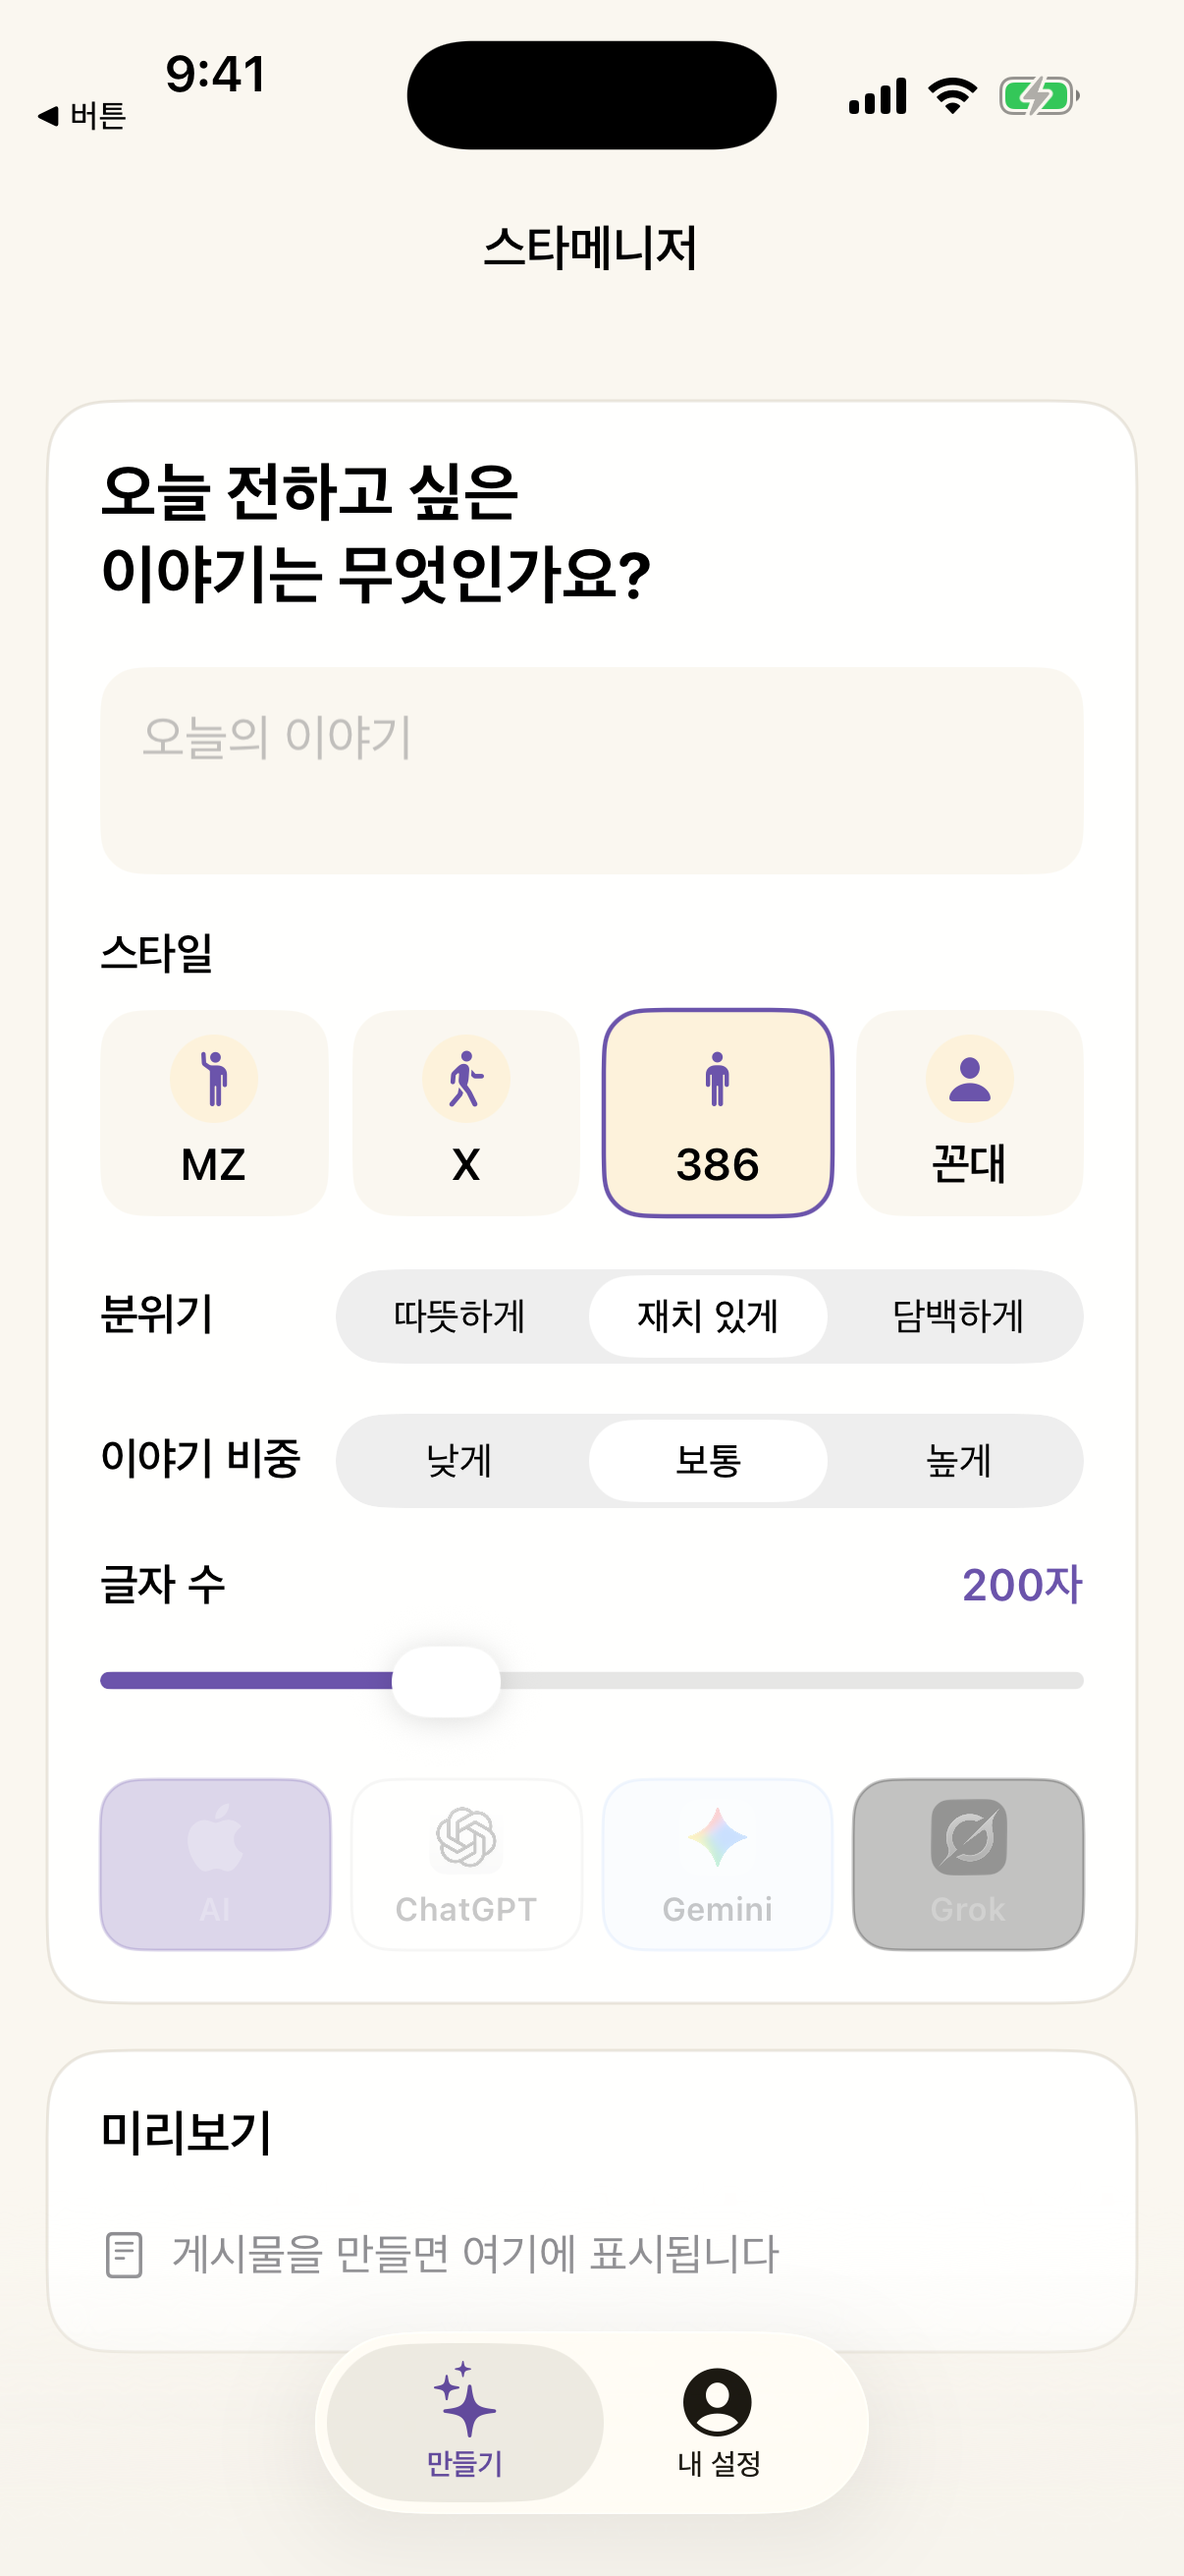
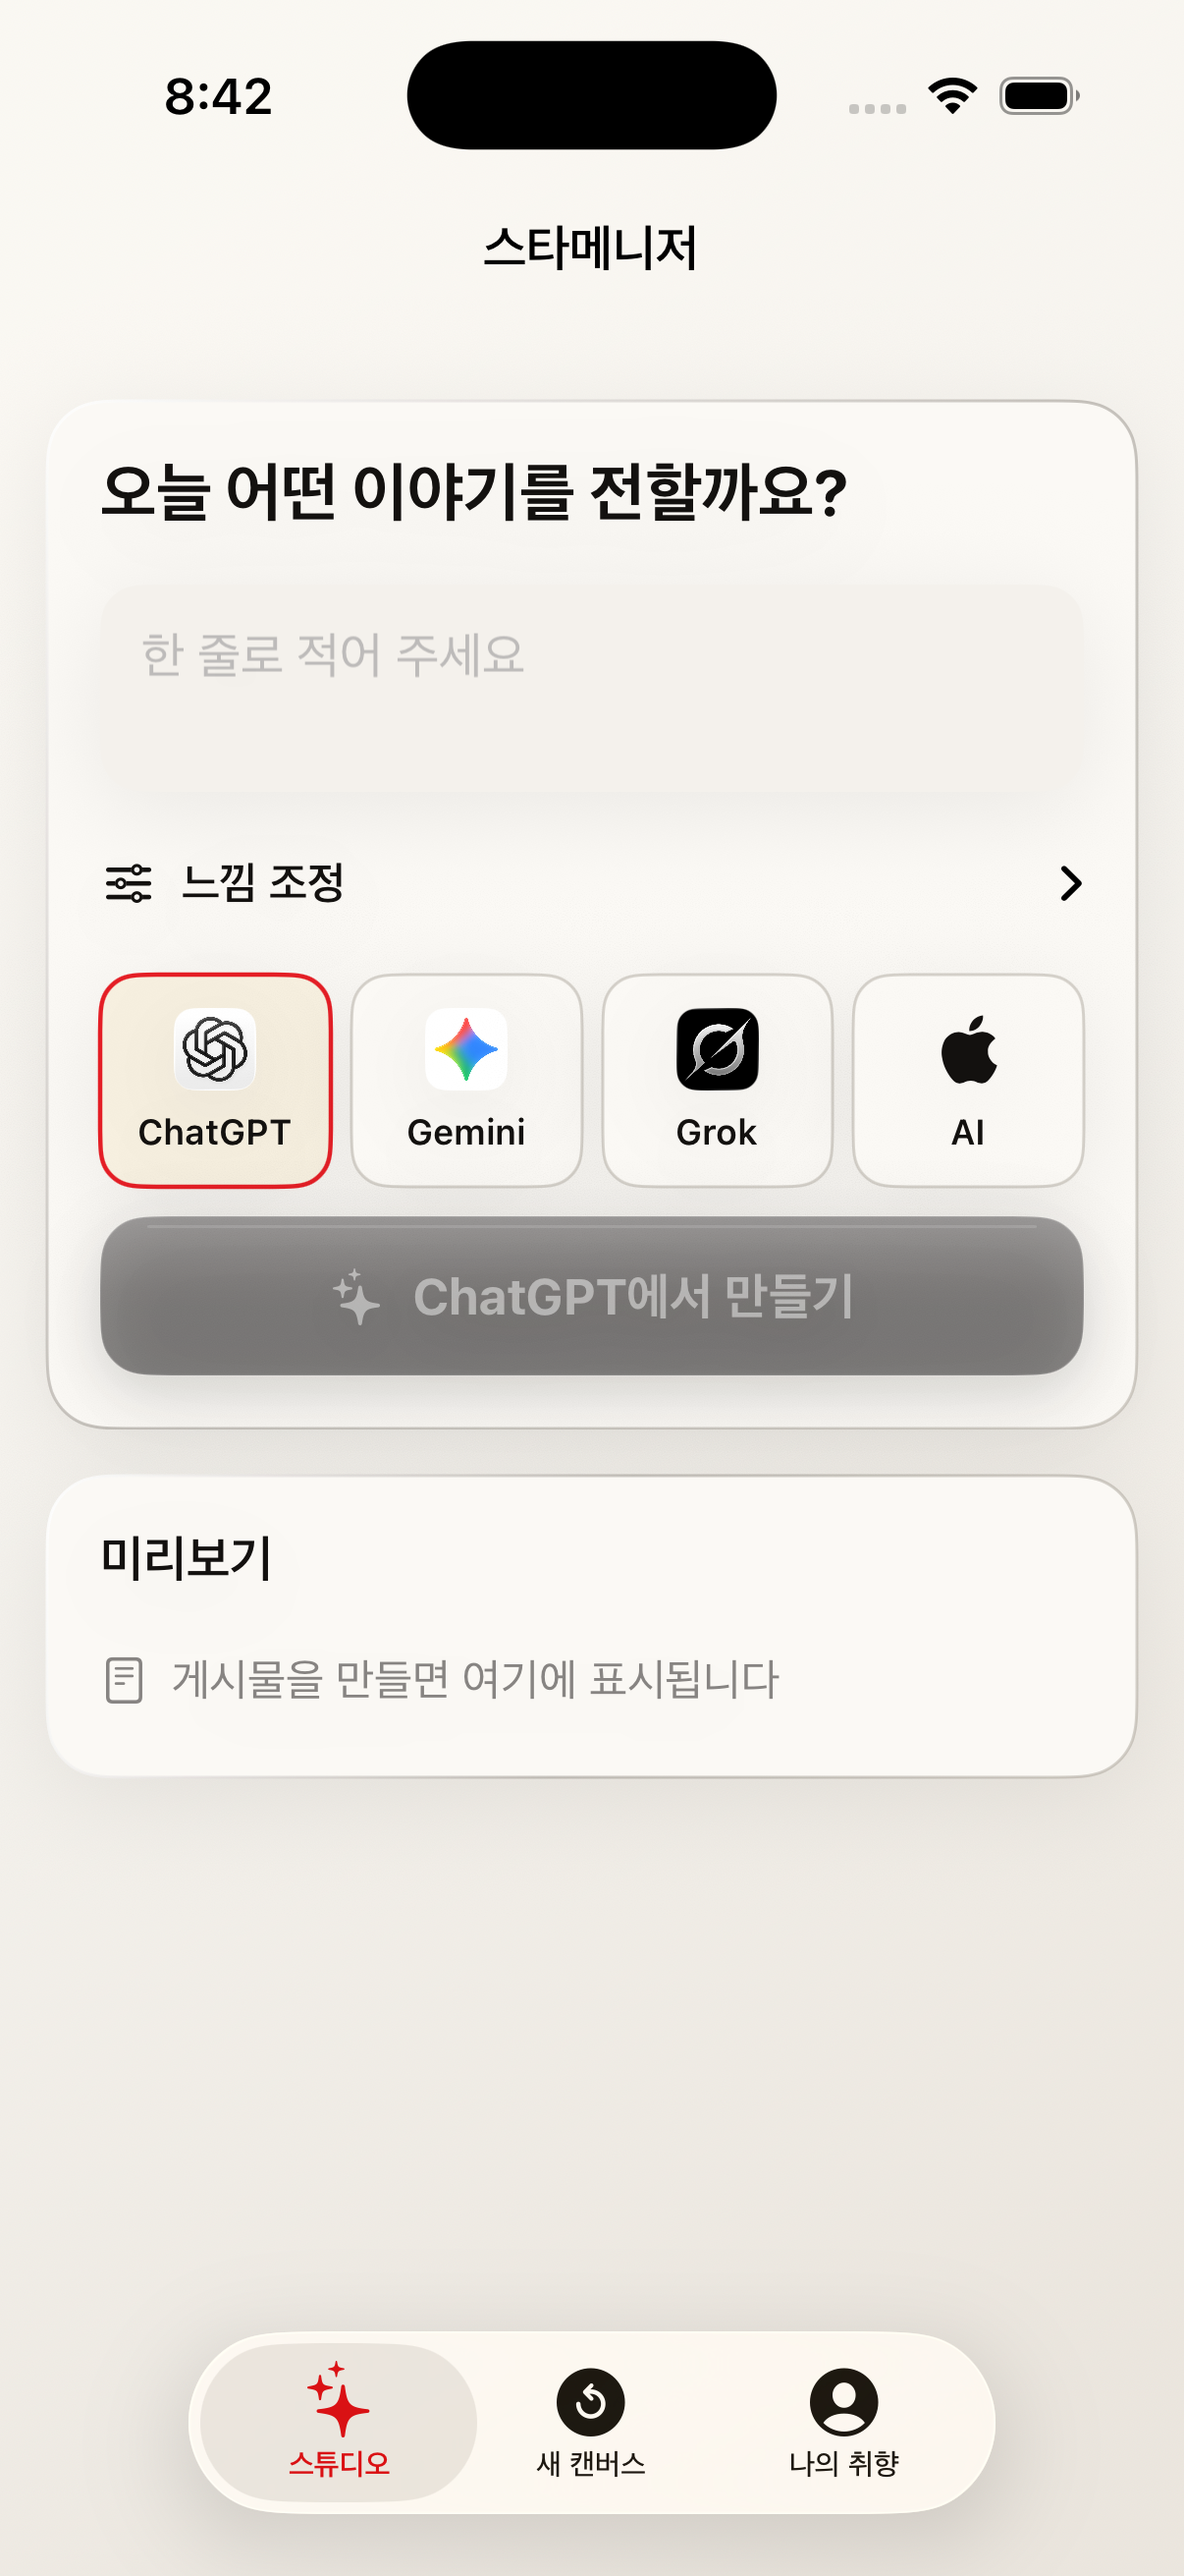
Publish StarManager 0.1.2 release details

diff --git a/app/data.ts b/app/data.ts
@@ -652,23 +652,24 @@ export const apps: AppData[] = [
       {
         name: "Android",
         status: "공개",
-        detail: "0.1.1 · APK v0.1.1 · Android 8.0+",
-        url: "https://github.com/armsone/StarManager-Android/releases/download/v0.1.1/StarManager-Android-v0.1.1.apk",
+        detail: "0.1.2 · APK v0.1.2 · Android 8.0+",
+        url: "https://github.com/armsone/StarManager-Android/releases/download/v0.1.2/StarManager-Android-v0.1.2.apk",
         downloadLabel: "Android APK 바로 받기",
[2 lines of base64/hex data omitted]
       },
     ],
     features: [
       { title: "한 문장부터 게시물까지", body: "오늘 전하고 싶은 생각을 적으면 선택한 스타일과 분위기, 이야기 비중을 반영해 정해진 글자 수의 초안을 만듭니다." },
       { title: "네 가지 말투", body: "MZ·X·386·꼰대 스타일과 따뜻하게·재치 있게·담백하게 분위기를 조합해 같은 이야기도 다른 결로 표현합니다." },
-      { title: "내 목소리와 프리셋", body: "주제·독자·말투·이모지와 세부 어조를 저장하고 자주 쓰는 설정은 프리셋으로 다시 불러옵니다." },
+      { title: "내 목소리와 프리셋", body: "주제·독자·말투·이모지와 세부 어조를 이 기기에 보관하고 자주 쓰는 설정은 프리셋으로 다시 불러옵니다." },
       { title: "글자 수를 정확하게", body: "한글과 이모지를 실제 글자 단위로 세어 목표 길이와 해시태그·마무리 기준을 함께 검증합니다." },
-      { title: "AI를 바로 선택", body: "지원 기기에서는 Apple AI로 바로 만들고, ChatGPT·Gemini·Grok에는 완성된 요청문을 보내 결과를 다시 가져올 수 있습니다." },
+      { title: "원하는 AI를 먼저 선택", body: "ChatGPT·Gemini·Grok·기기 AI를 같은 자리에서 고릅니다. 외부 앱을 열 때는 어디로 왜 이동하는지 먼저 알려 줍니다." },
+      { title: "새 캔버스로 다시 시작", body: "하단의 새 캔버스로 현재 이야기와 결과, 미디어만 비우고 나의 취향과 프로필은 그대로 유지합니다." },
       { title: "미디어와 공유", body: "사진·영상을 최대 8개까지 담고 외부에서 끌어 놓거나 순서를 바꾸고 삭제한 뒤, 문구 자동 복사와 공유 화면으로 게시를 준비합니다." },
     ],
     guide: [
-      { title: "이야기 입력", body: "만들기 탭에서 오늘 전하고 싶은 이야기와 스타일·분위기·비중·글자 수를 고릅니다." },
-      { title: "초안 만들기", body: "Apple AI 버튼으로 기기에서 바로 만들거나 ChatGPT·Gemini·Grok으로 요청문을 보냅니다." },
+      { title: "이야기 입력", body: "스튜디오에서 전하고 싶은 이야기를 한 줄로 적고, 필요할 때 느낌 조정에서 말투와 길이를 다듬습니다." },
+      { title: "초안 만들기", body: "사용할 AI를 고른 뒤 화면에서 가장 눈에 띄는 만들기 버튼을 누릅니다." },
       { title: "결과 확인", body: "목표 글자 수와 구성 기준을 확인하고, 외부 결과가 있으면 후보끼리 비교해 사용할 문장을 고릅니다." },
       { title: "미디어 추가", body: "사진·영상 또는 카메라로 미디어를 추가하고 순서와 대표 항목, 미리보기 화면비를 정합니다." },
       { title: "공유", body: "초안이 현재 설정과 일치하는지 확인한 뒤 캡션과 미디어를 원하는 앱으로 공유합니다." },
@@ -676,13 +677,13 @@ export const apps: AppData[] = [
     progress: [
       { state: "done", title: "iPhone·iPad 원본 분석", body: "실제로 도달 가능한 만들기·내 설정 화면과 상태·문구·동작을 소스 기준으로 정리" },
       { state: "done", title: "Android 구현과 실기기 검증", body: "휴대전화·태블릿 반응형 화면, 생성·검증·미디어·설정 흐름 구현과 테스트 완료" },
-      { state: "done", title: "Android 0.1.1 공개", body: "미디어 8개 제한과 외부 끌어 놓기를 맞춘 Android 0.1.1 APK를 GitHub Releases에 공개" },
+      { state: "done", title: "Android 0.1.2 공개", body: "AI 선택 흐름, 새 캔버스와 새 디자인을 반영한 Android 0.1.2 APK를 GitHub Releases에 공개" },
       { state: "done", title: "iPhone 실기기 설치", body: "대표 iPhone에 0.1.0 (1) 설치와 실행 확인" },
       { state: "active", title: "TestFlight 처리", body: "0.1.1 (2) 업로드 완료, Apple의 빌드 처리 결과 대기" },
-      { state: "next", title: "시각 매치업 보강", body: "동일한 iOS·Android 무손실 캡처가 준비되면 화면별 시각 차이를 추가 검증" },
+      { state: "next", title: "iOS 0.1.2 배포 준비", body: "새 스튜디오 화면과 안전한 초기화 흐름의 빌드 검증 완료, TestFlight 서명 복구 후 업로드" },
     ],
     screenshots: [
-      { src: "/apps/starmanager/screens/ios-composer.png", alt: "스타메니저 iPhone 만들기 화면" },
+      { src: "/apps/starmanager/screens/ios-composer.png", alt: "스타메니저 iPhone 스튜디오의 AI 선택과 새 캔버스 화면" },
       { src: "/apps/starmanager/screens/android-composer.png", alt: "스타매니저 Android 만들기 화면" },
       { src: "/apps/starmanager/screens/android-result.png", alt: "스타매니저 Android 게시물 생성 결과" },
     ],
